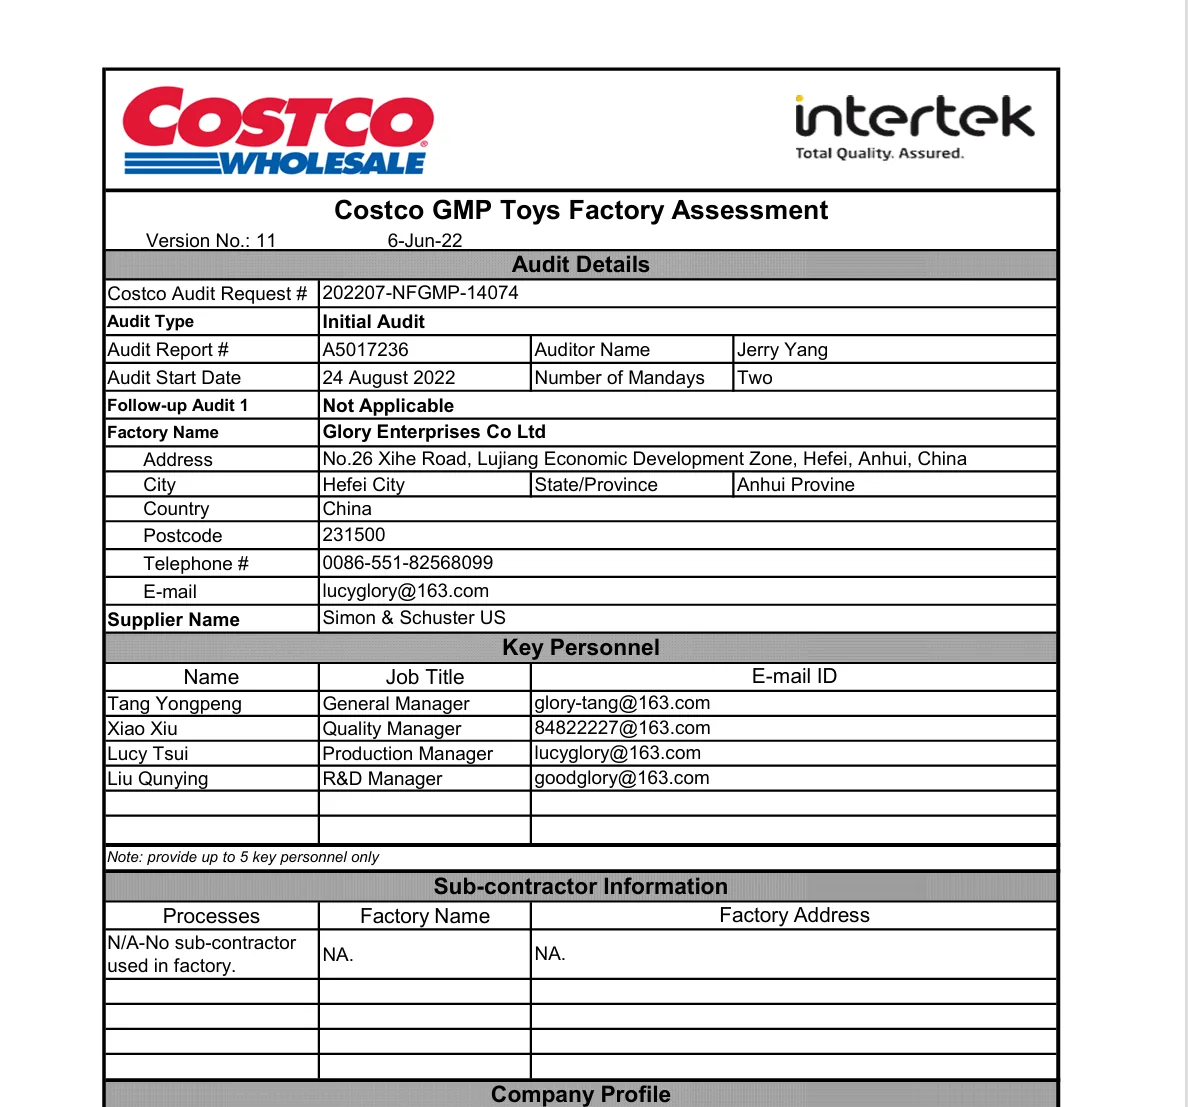
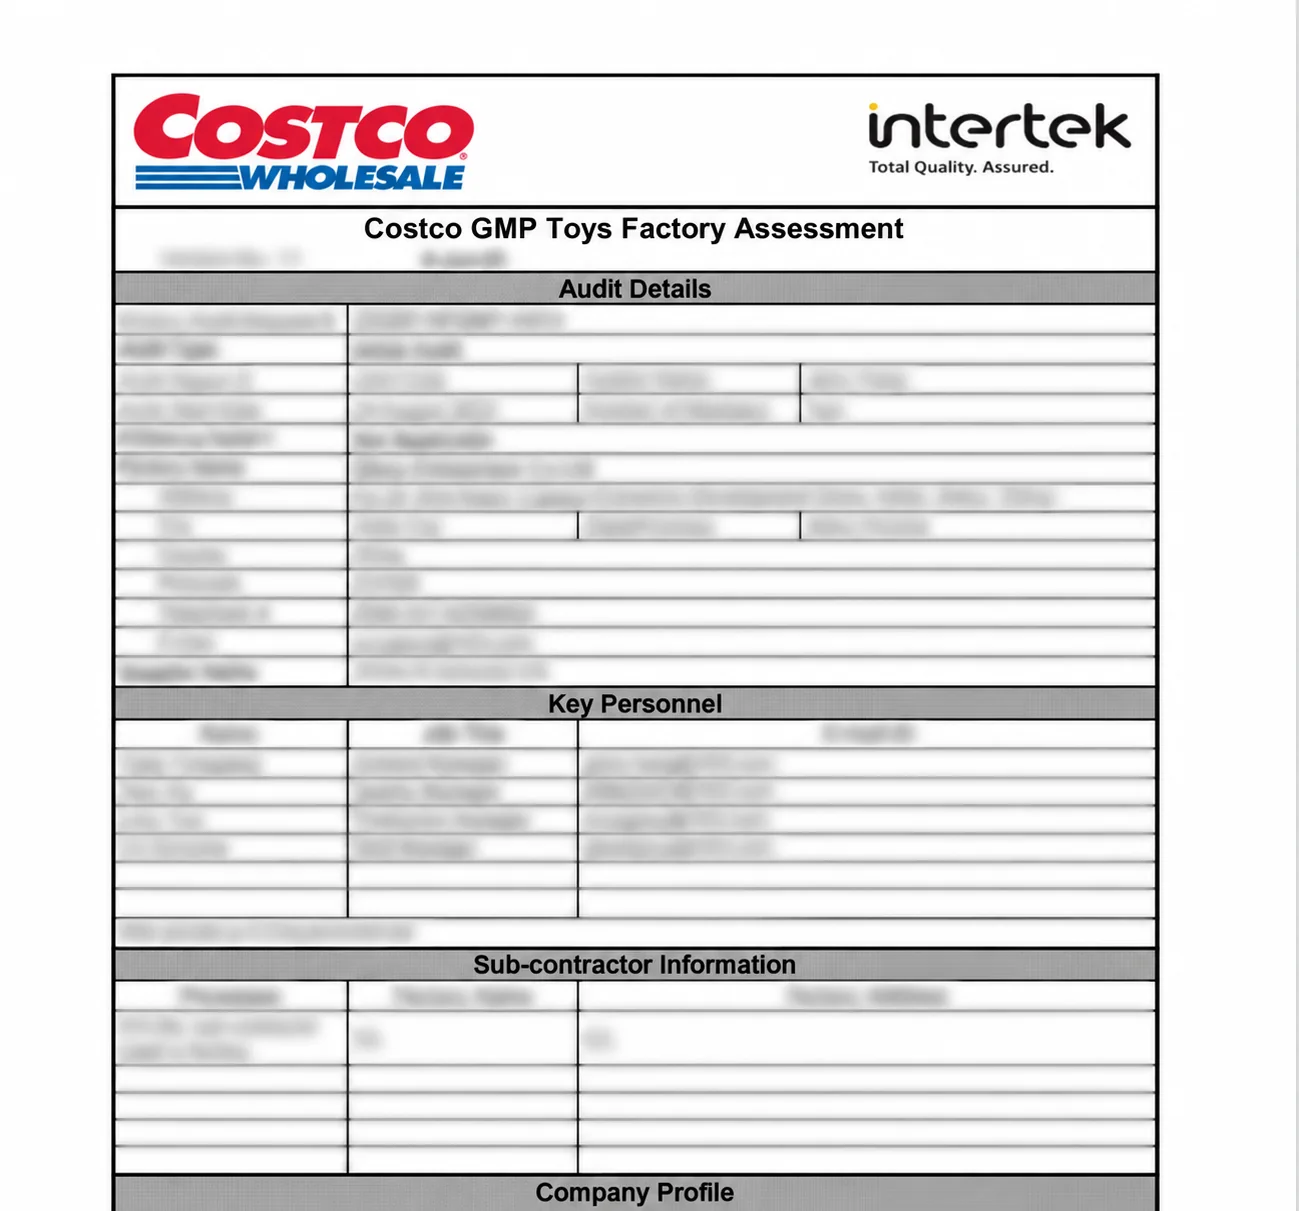
Redact factory audit details

Changed region(s): [[0.0623, 0.0614, 0.9032, 1.0]]

diff --git a/app/page.tsx b/app/page.tsx
@@ -252,9 +252,9 @@ export default function HomePage() {
               <aside className={styles.auditCard}>
                 <p className={styles.eyebrow}>AUDIT-READY SUPPORT</p>
                 <h3>Documentation without overclaiming.</h3>
-                <p>Audit and compliance availability varies by manufacturing partner, product construction, and buyer program. We confirm the applicable scope before quotation.</p>
+                <p>Audit and compliance availability varies by manufacturing partner, product construction, and buyer program. We confirm the applicable scope before quotation. Sensitive operational details are redacted in public previews.</p>
                 <div>
-                  <Image src="/images/compliance/costco-audit.webp" alt="Representative Costco audit document" width={1188} height={1107} />
+                  <Image src="/images/compliance/costco-audit.webp" alt="Redacted representative Costco audit document" width={1188} height={1107} />
                   <Image src="/images/compliance/sedex-report.webp" alt="Representative Sedex report document" width={888} height={1170} />
                 </div>
               </aside>
